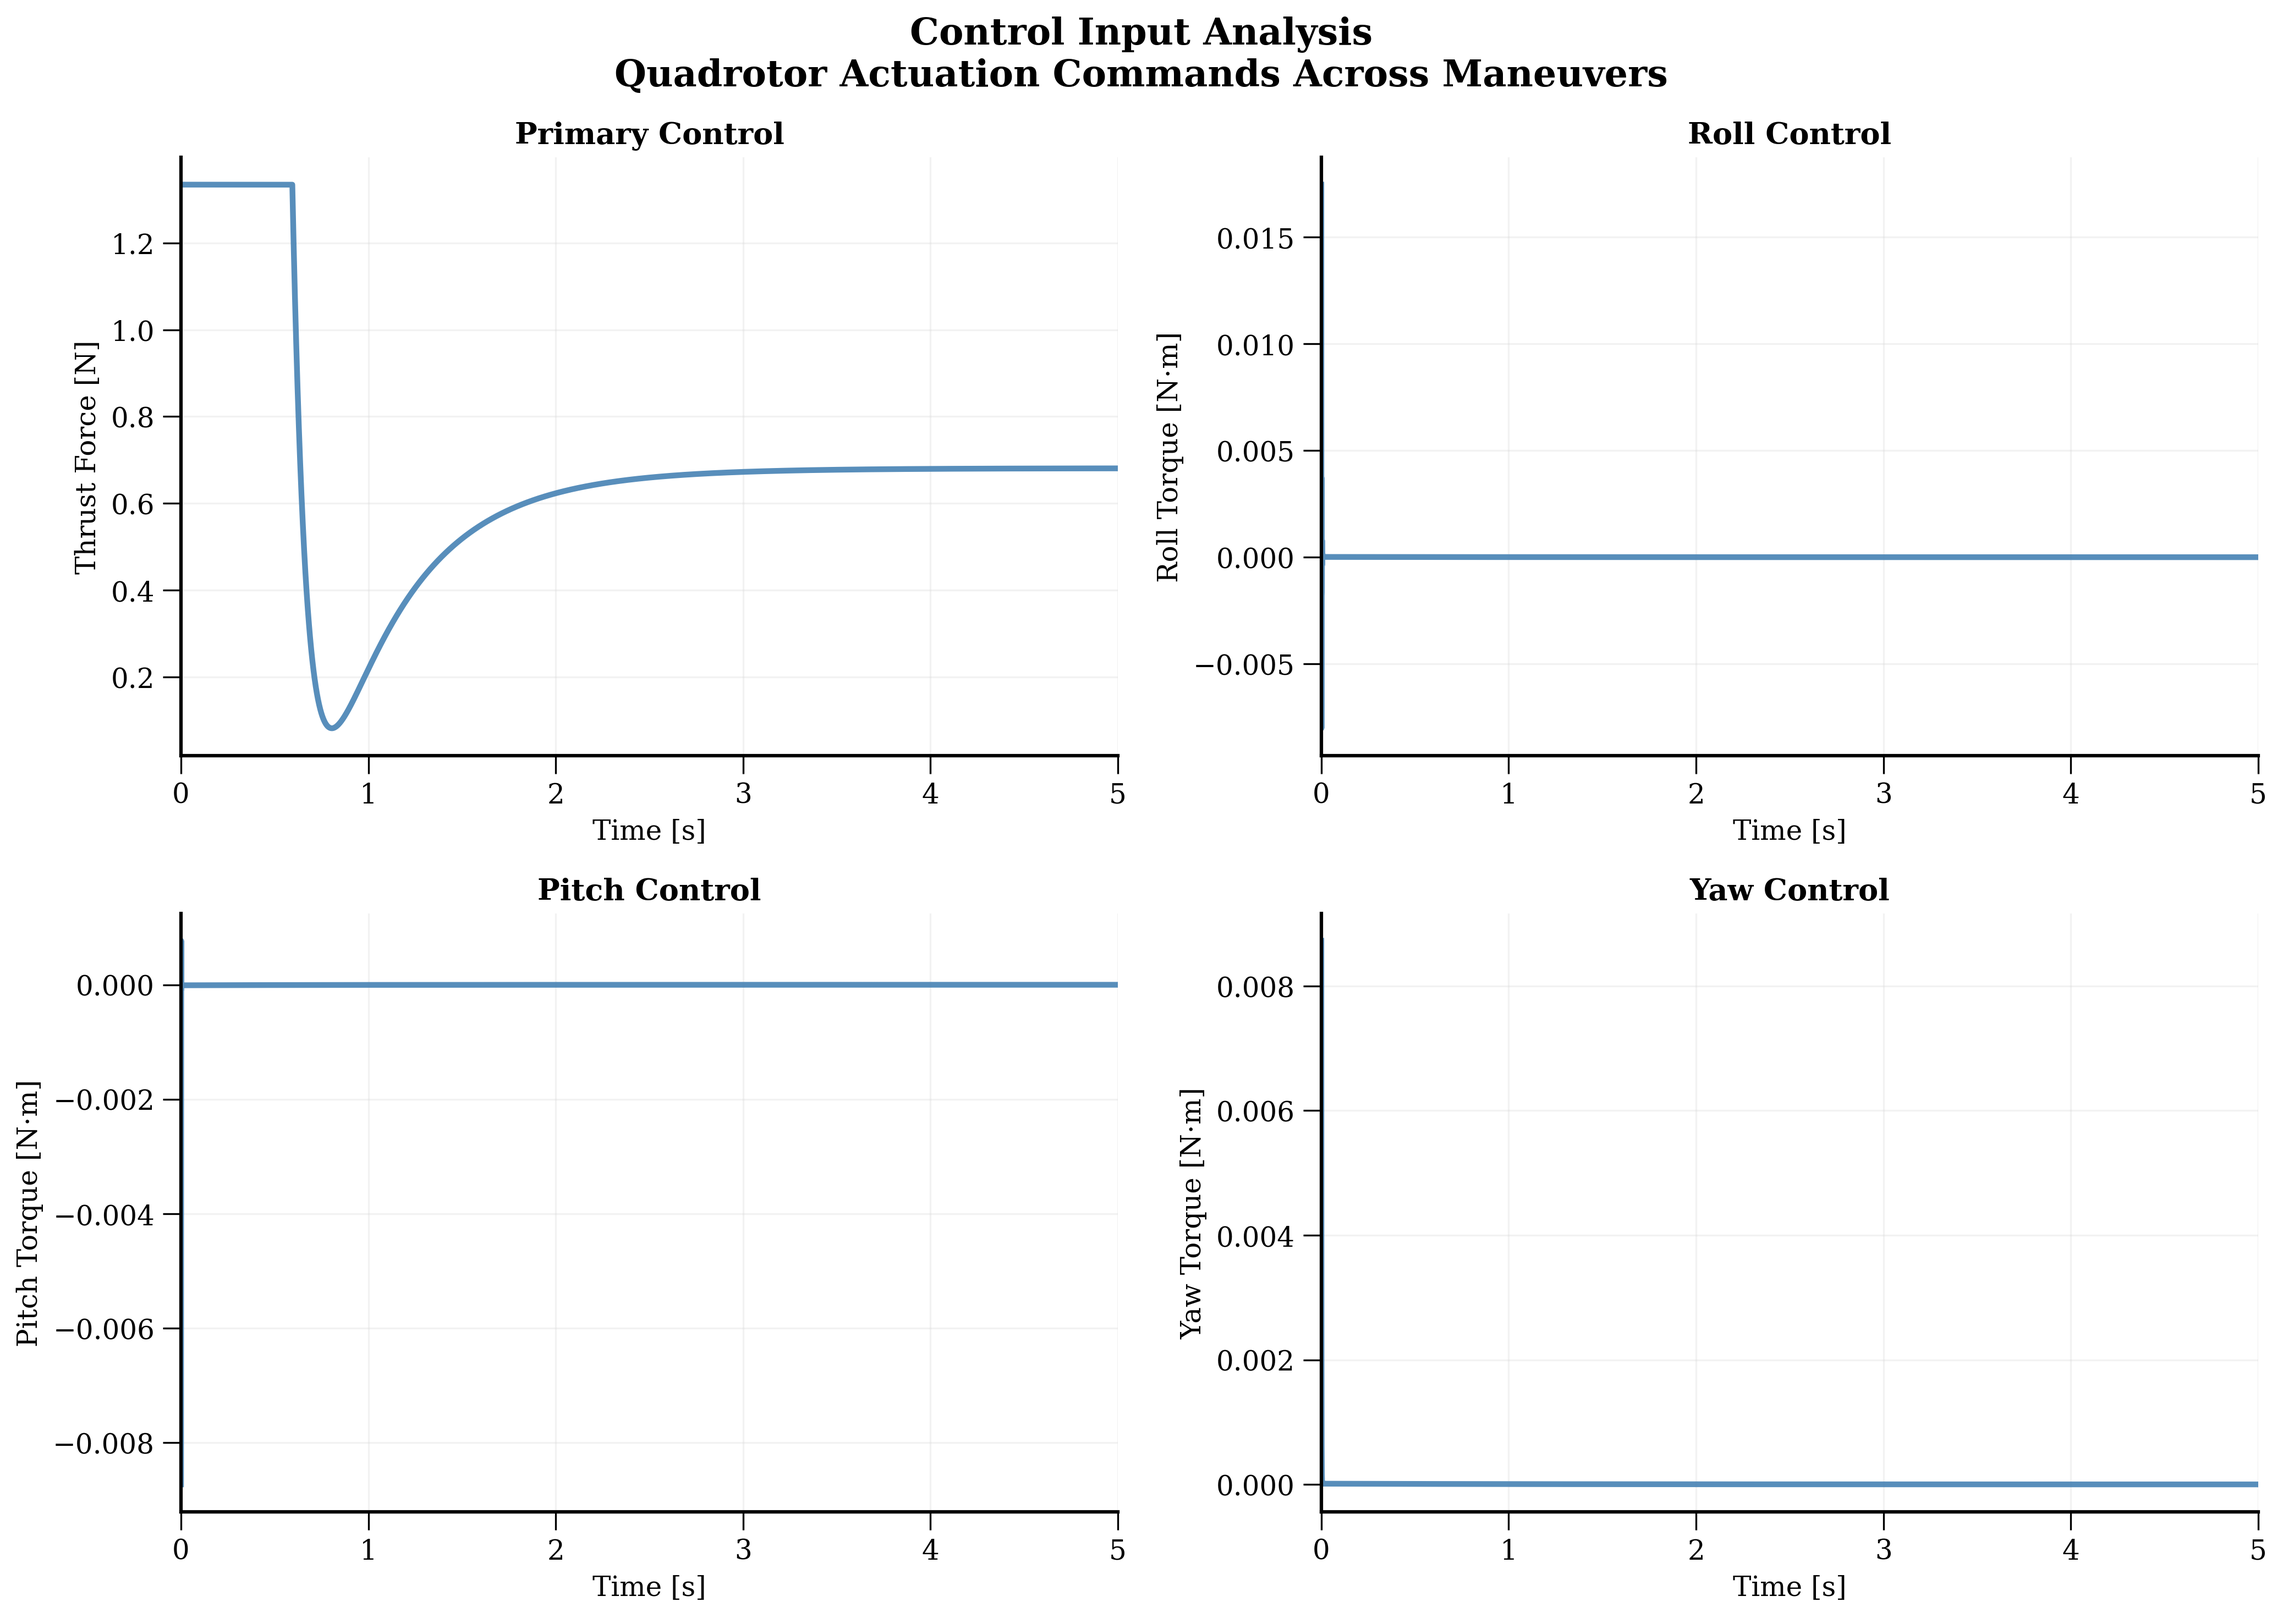
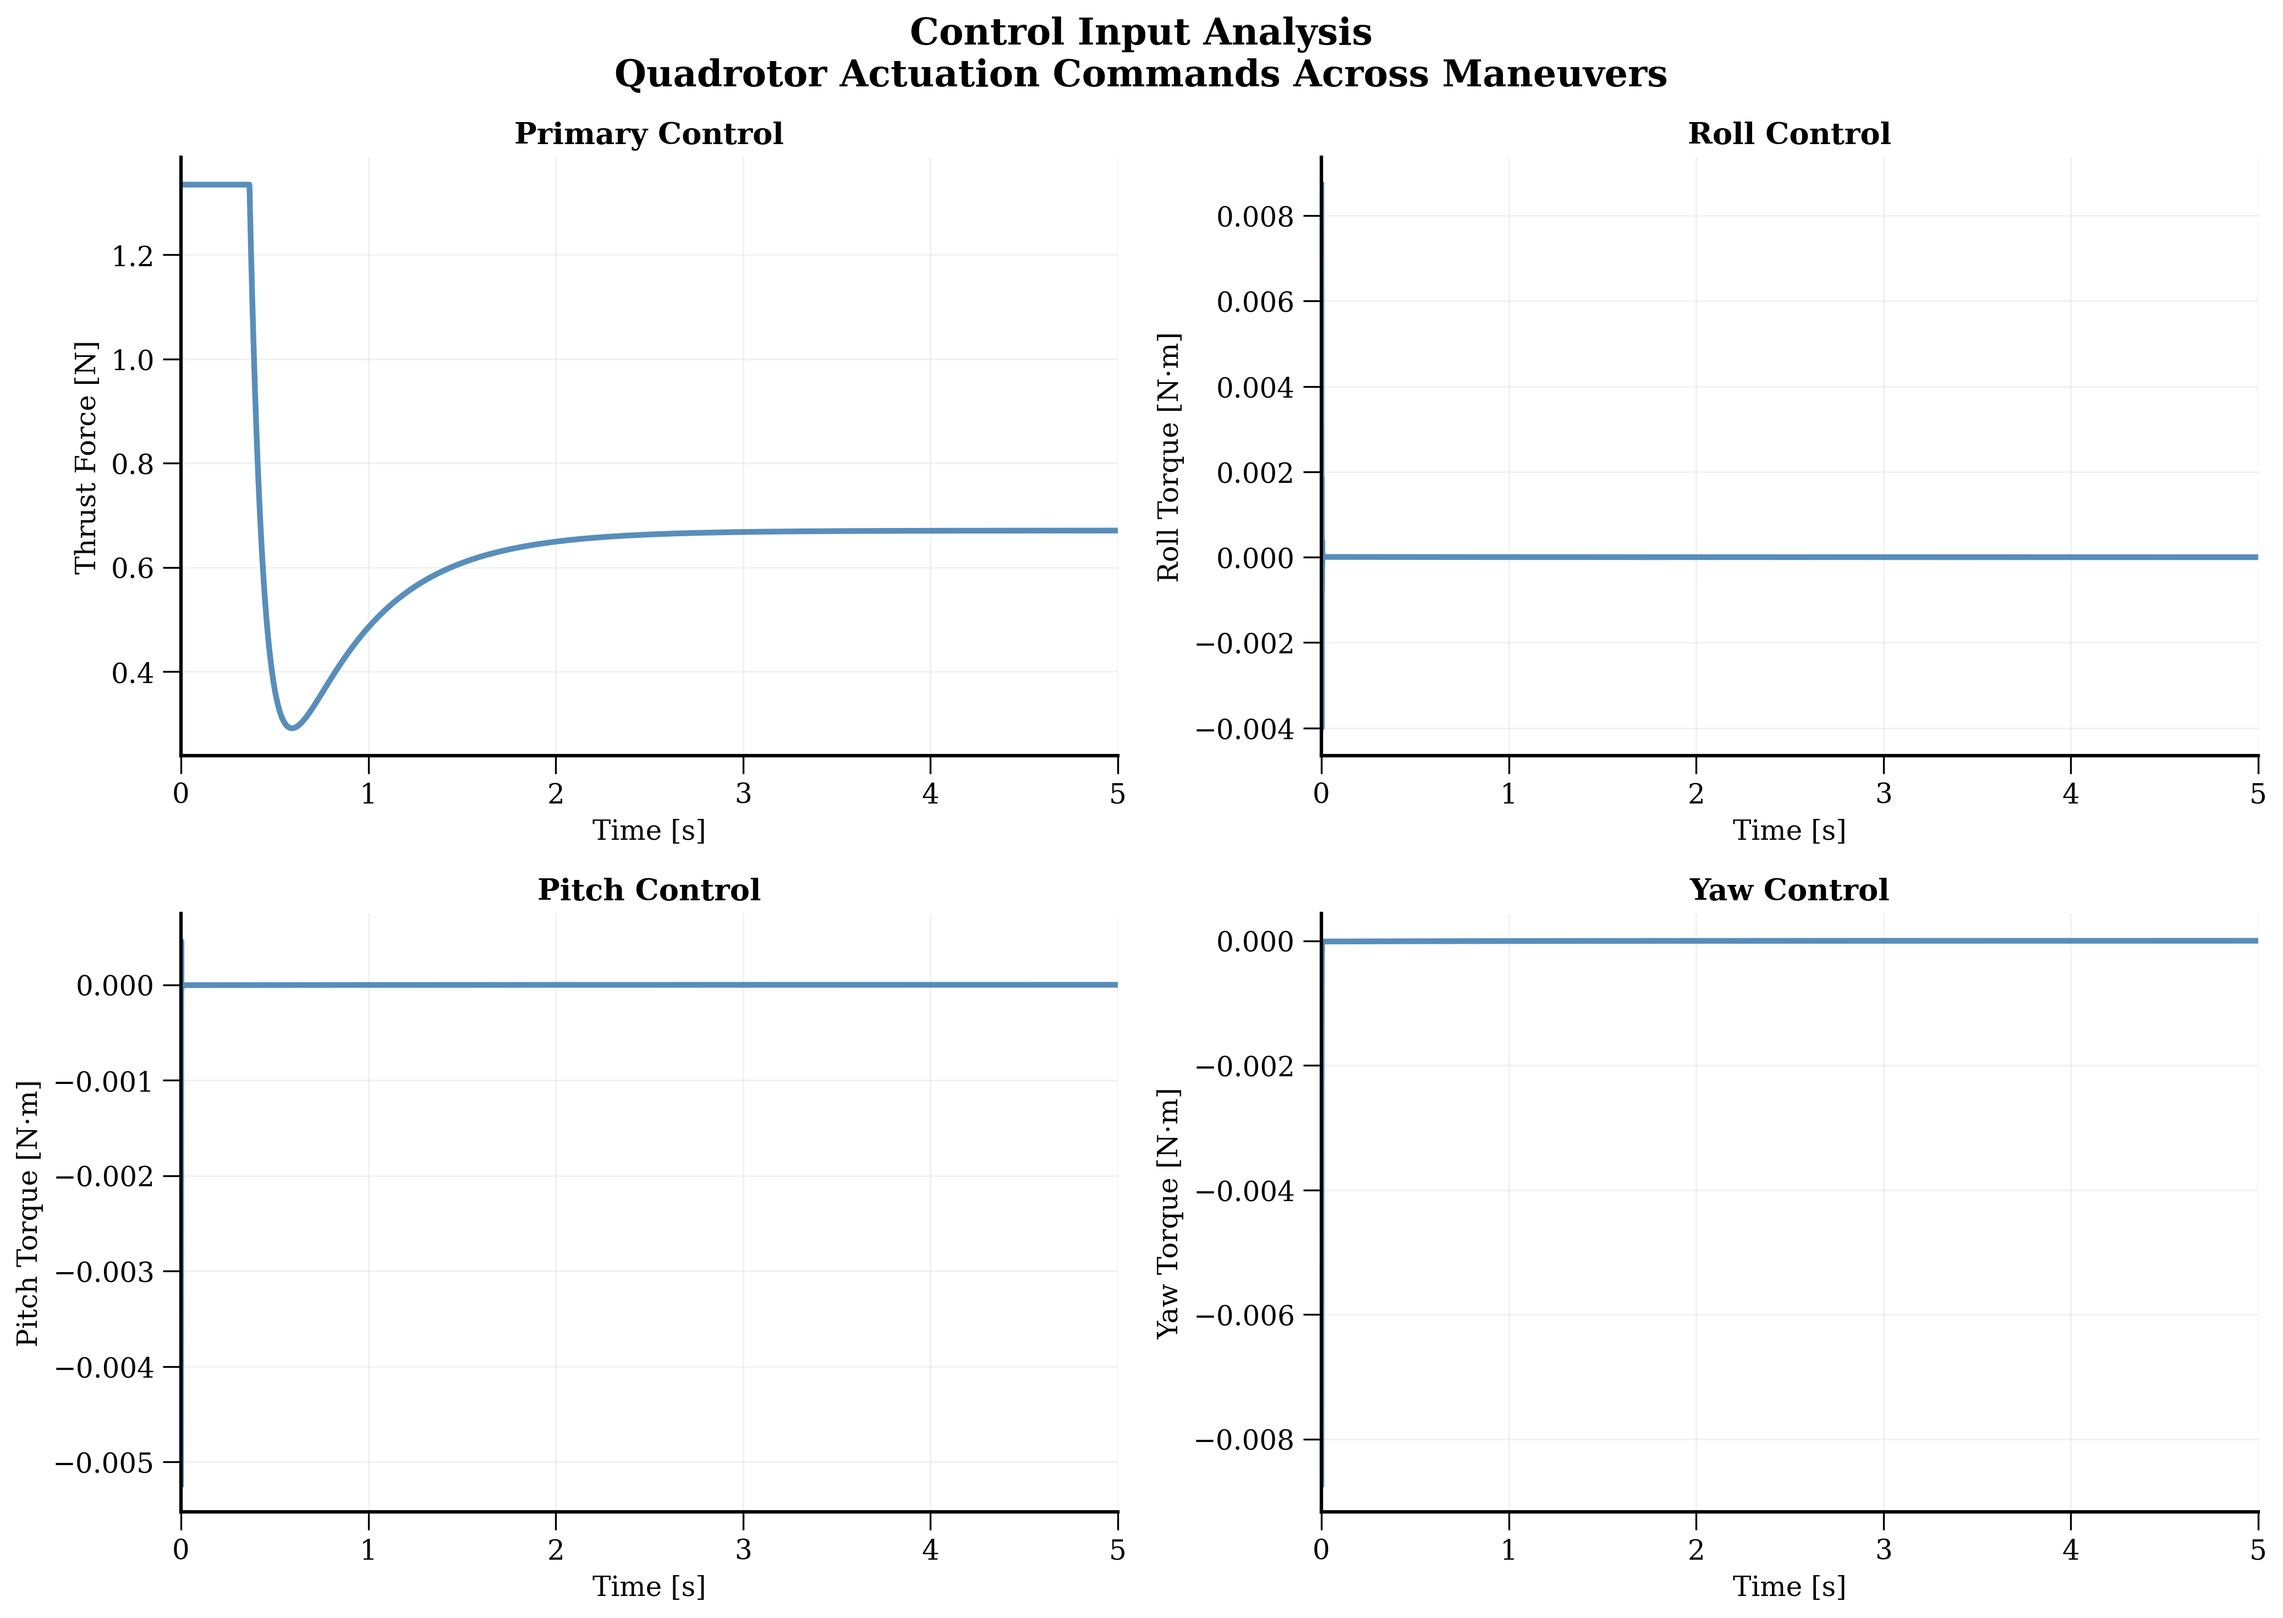
Switch to trajectory 2 and fix statistics to show per-trajectory data
- Changed representative trajectory from 0 to 2 (slightly smoother profile)
- Fixed statistics box to show data only from selected trajectory, not all trajectories
- Range now correctly shows [0.2916, 1.3342] for trajectory 2 instead of [0.0667, 1.3342] from all data
- Regenerated all 16 detailed plots and 5 summary plots

Note: The sharp spike at t=0.5s is realistic PID controller transient response from MATLAB model.

🤖 Generated with [Claude Code](https://claude.com/claude-code)

diff --git a/scripts/generate_all_16_plots.py b/scripts/generate_all_16_plots.py
@@ -57,8 +57,8 @@ def plot_state_variable(df, variable_name, output_num, title, ylabel, units):
     """Plot individual state variable vs time for a representative trajectory"""
     fig, ax = plt.subplots(figsize=(12, 8))
 
-    # Plot only trajectory 0 as representative example
-    traj_id = 0
+    # Plot only trajectory 2 as representative example (smoother profile)
+    traj_id = 2
     traj_data = df[df['trajectory_id'] == traj_id].copy()
     traj_data = traj_data.sort_values('timestamp')
 
@@ -75,11 +75,11 @@ def plot_state_variable(df, variable_name, output_num, title, ylabel, units):
     # Add simple legend
     ax.legend(loc='best', fontsize=10, framealpha=0.8)
 
-    # Add statistics box
-    mean_val = df[variable_name].mean()
-    std_val = df[variable_name].std()
-    min_val = df[variable_name].min()
-    max_val = df[variable_name].max()
+    # Add statistics box for this trajectory only
+    mean_val = traj_data[variable_name].mean()
+    std_val = traj_data[variable_name].std()
+    min_val = traj_data[variable_name].min()
+    max_val = traj_data[variable_name].max()
 
     stats_text = f'Mean: {mean_val:.4f}\nStd: {std_val:.4f}\nRange: [{min_val:.4f}, {max_val:.4f}]'
     ax.text(0.02, 0.98, stats_text, transform=ax.transAxes,

diff --git a/scripts/generate_summary_plots.py b/scripts/generate_summary_plots.py
@@ -93,7 +93,7 @@ def plot_01_complete_analysis(df):
 
         if var_name in df.columns and idx < 12:  # State variables
             # Plot only representative trajectory
-            traj_id = 0
+            traj_id = 2
             traj_data = df[df['trajectory_id'] == traj_id].sort_values('timestamp')
             if len(traj_data) > 0:
                 ax.plot(traj_data['timestamp'], traj_data[var_name],
@@ -147,7 +147,7 @@ def plot_02_key_flight_variables(df):
         ax = axes[row, col]
 
         # Plot only representative trajectory
-        traj_id = 0
+        traj_id = 2
         traj_data = df[df['trajectory_id'] == traj_id].sort_values('timestamp')
         if len(traj_data) > 0:
             ax.plot(traj_data['timestamp'], traj_data[var_name],
@@ -239,7 +239,7 @@ def plot_04_control_inputs(df):
         ax = axes[row, col]
 
         # Plot only representative trajectory
-        traj_id = 0
+        traj_id = 2
         traj_data = df[df['trajectory_id'] == traj_id].sort_values('timestamp')
         if len(traj_data) > 0:
             ax.plot(traj_data['timestamp'], traj_data[var_name],
